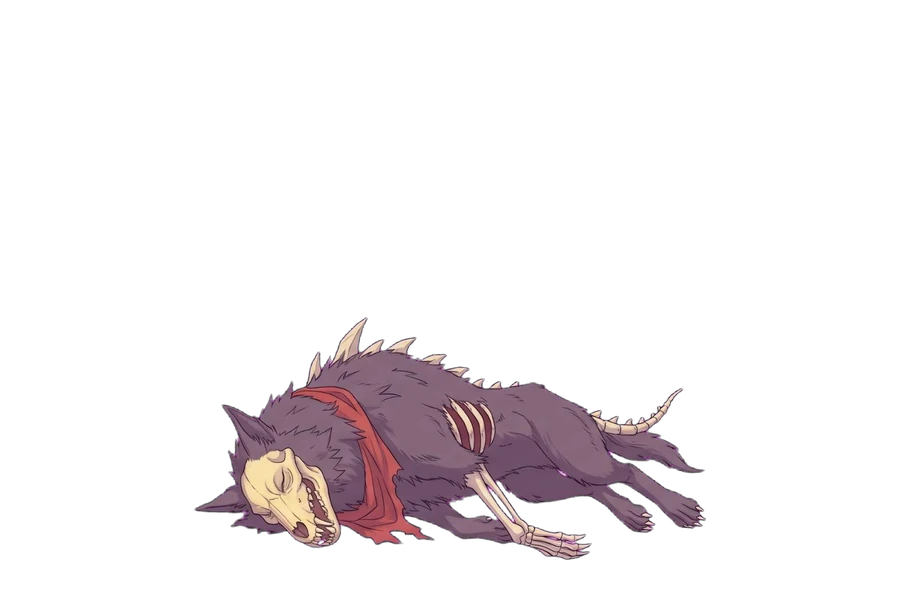
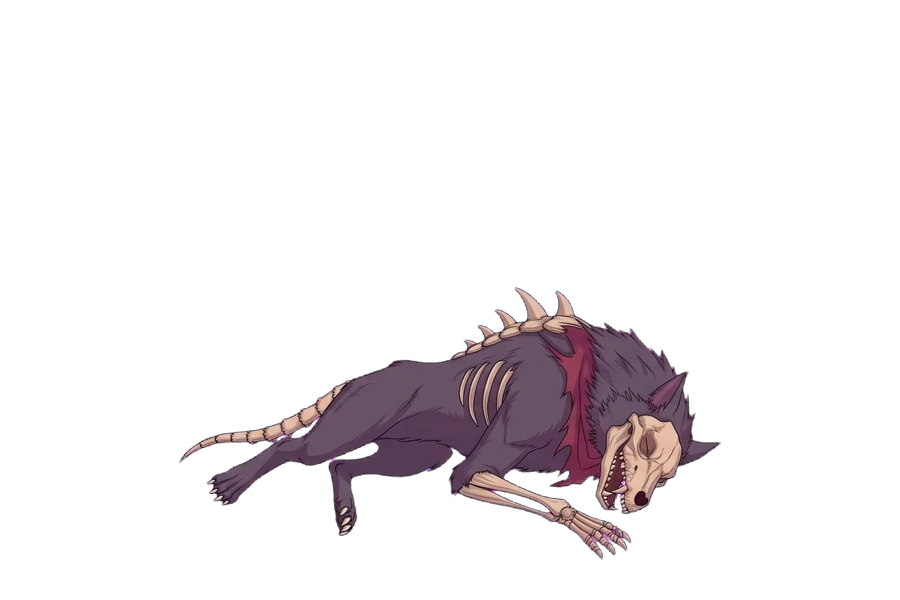
v0.8.79 第 5 關大小狼全招式關鍵格、大狼倒地、荒原地面帶與前景
Claude-Session: https://claude.ai/code/session_019t36GpyRPapLF4Hr4skQms

Changed region(s): [[0.2178, 0.48, 0.8089, 0.93], [0.1867, 0.75, 0.2178, 0.78]]

diff --git a/index.html b/index.html
@@ -2077,7 +2077,7 @@
       "use strict";
 
       /* v0.7.8 圖片快取：assets/ 圖片網址一律加 ?v=版本，更新美術後不會讀到手機瀏覽器的舊快取（每次改圖就遞增 ASSET_VER） */
-      const ASSET_VER = "0.8.78";
+      const ASSET_VER = "0.8.79";
       (function () {
         const d = Object.getOwnPropertyDescriptor(HTMLImageElement.prototype, "src");
         if (!d || !d.set) return;
@@ -3000,40 +3000,45 @@
         const M = {};
         const FR = (w, a, r) => ({ windup: w, active: a, recover: r });
         /* --- 小狼（快、低、打了就跑） --- */
-        M.s_bite = { fxAct: { sheet: "wolf", row: 1, ox: 120, oy: -85, w: 280, dur: 0.26 }, kick: 0.12, name: "幽影撕咬", frames: { windup: ["07_windup", "20_bite_crouch"], active: ["21_bite_lunge"], recover: ["10_slash_rec"] }, windup: 0.40, active: 0.12, recover: 0.22, range: 150, lunge: 520, damage: 120, parryPostureDmg: 16 };
-        M.s_bite2 = { fxHit: { sheet: "wolf", row: 1, ox: 110, oy: -85, w: 240, dur: 0.22 }, kickHit: 0.08, name: "連環撕咬", isCombo: true, comboTotalHits: 2, comboInterval: 0.16, comboDamagePerHit: 85, frames: { windup: ["20_bite_crouch"], active: ["21_bite_lunge", "29_claw", "21_bite_lunge"], recover: ["10_slash_rec"] }, windup: 0.38, active: 0.45, recover: 0.30, range: 155, lunge: 420, damage: 100, parryPostureDmg: 14 };
-        M.s_claw3 = { kickHit: 0.08, fxHit: { sheet: "wolf", row: 0, ox: 110, oy: -90, w: 300, dur: 0.25 }, name: "血爪三連", isCombo: true, comboTotalHits: 3, comboInterval: 0.18, comboDamagePerHit: 80, frames: { windup: ["07_windup"], active: ["29_claw", "09_slash", "29_claw"], recover: ["10_slash_rec"] }, windup: 0.42, active: 0.62, recover: 0.34, range: 160, lunge: 420, damage: 110, parryPostureDmg: 14 };
-        M.s_pounce = { fxLand: 0.45, kick: 0.1, name: "疾撲 (閃開，或起跳踩頭)", isLeap: true, leapH: 130, leapMax: 460, frames: { windup: ["08_windup_thrust", "22_pounce_coil"], active: ["23_pounce_fly", "24_pounce_dive"], recover: ["25_pounce_land", "12_thrust_rec"] }, windup: 0.42, active: 0.36, recover: 0.42, range: 150, lunge: 0, damage: 150, parryPostureDmg: 16 };
-        M.s_rush = { fxAct: { sheet: "wolf", row: 0, ox: 150, oy: -90, w: 440, dur: 0.3 }, kick: 0.22, name: "【危】狂暴衝撲 (前閃看破)", isPerilous: true, perilType: "thrust", frames: { windup: ["08_windup_thrust", "22_pounce_coil"], active: ["26_rush"], recover: ["25_pounce_land", "12_thrust_rec"] }, windup: 0.50, active: 0.20, recover: 0.55, range: 300, lunge: 980, damage: 300 };
-        M.s_tail = { fxAct: { sheet: "land", row: 2, ox: 0, oy: -45, w: 560, dur: 0.45, alpha: 0.6 }, kick: 0.15, name: "【危】甩尾旋斬 (起跳踩頭)", isPerilous: true, perilType: "sweep", frames: { windup: ["27_tail_wind"], active: ["28_tail_spin", "13_sweep"], recover: ["10_slash_rec"] }, windup: 0.52, active: 0.22, recover: 0.50, range: 230, lunge: 240, damage: 260 };
-        M.s_shadow = { name: "幽影閃 (繞背)", isTeleport: true, teleportBehind: true, teleportDelay: 0.30, teleportText: "【幽影閃】", teleportColor: "#c084fc", frames: FR("07_windup", "09_slash", "10_slash_rec"), windup: 0.50, active: 0.12, recover: 0.34, range: 150, lunge: 300, damage: 130, parryPostureDmg: 14 };
+        M.s_bite = { fxAct: { sheet: "wolf", row: 1, ox: 120, oy: -85, w: 280, dur: 0.26 }, kick: 0.12, name: "幽影撕咬", frames: { windup: ["40_sb_wind"], active: ["41_sb_open", "42_sb_snap"], recover: ["43_sb_rec"] }, windup: 0.40, active: 0.12, recover: 0.22, range: 150, lunge: 520, damage: 120, parryPostureDmg: 16 };
+        M.s_bite2 = { fxHit: { sheet: "wolf", row: 1, ox: 110, oy: -85, w: 240, dur: 0.22 }, kickHit: 0.08, name: "連環撕咬", isCombo: true, comboTotalHits: 2, comboInterval: 0.16, comboDamagePerHit: 85, frames: { windup: ["40_sb_wind"], active: ["41_sb_open", "42_sb_snap", "41_sb_open", "42_sb_snap"], recover: ["43_sb_rec"] }, windup: 0.38, active: 0.45, recover: 0.30, range: 155, lunge: 420, damage: 100, parryPostureDmg: 14 };
+        M.s_claw3 = { kickHit: 0.08, fxHit: { sheet: "wolf", row: 0, ox: 110, oy: -90, w: 300, dur: 0.25 }, name: "血爪三連", isCombo: true, comboTotalHits: 3, comboInterval: 0.18, comboDamagePerHit: 80, frames: { windup: ["44_sc_rear"], active: ["45_sc_a", "46_sc_b", "45_sc_a"], recover: ["47_sc_rec"] }, windup: 0.42, active: 0.62, recover: 0.34, range: 160, lunge: 420, damage: 110, parryPostureDmg: 14 };
+        M.s_pounce = { fxLand: 0.45, kick: 0.1, name: "疾撲 (閃開，或起跳踩頭)", isLeap: true, leapH: 130, leapMax: 460, frames: { windup: ["48_sp_coil"], active: ["49_sp_rise", "50_sp_dive"], recover: ["51_sp_land"] }, windup: 0.42, active: 0.36, recover: 0.42, range: 150, lunge: 0, damage: 150, parryPostureDmg: 16 };
+        M.s_rush = { fxAct: { sheet: "wolf", row: 0, ox: 150, oy: -90, w: 440, dur: 0.3 }, kick: 0.22, name: "【危】狂暴衝撲 (前閃看破)", isPerilous: true, perilType: "thrust", frames: { windup: ["52_sr_tell"], active: ["53_sr_dart"], recover: ["51_sp_land", "43_sb_rec"] }, windup: 0.50, active: 0.20, recover: 0.55, range: 300, lunge: 980, damage: 300 };
+        M.s_tail = { fxAct: { sheet: "land", row: 2, ox: 0, oy: -45, w: 560, dur: 0.45, alpha: 0.6 }, kick: 0.15, name: "【危】甩尾旋斬 (起跳踩頭)", isPerilous: true, perilType: "sweep", frames: { windup: ["56_st_wind"], active: ["57_st_spin"], recover: ["58_st_rec"] }, windup: 0.52, active: 0.22, recover: 0.50, range: 230, lunge: 240, damage: 260 };
+        M.s_shadow = { name: "幽影閃 (繞背)", isTeleport: true, teleportBehind: true, teleportDelay: 0.30, teleportText: "【幽影閃】", teleportColor: "#c084fc", frames: { windup: ["40_sb_wind"], active: ["55_ss_hit"], recover: ["47_sc_rec"] }, windup: 0.50, active: 0.12, recover: 0.34, range: 150, lunge: 300, damage: 130, parryPostureDmg: 14 };
         M.backstep = { name: "後撤", isMobility: true, frames: { windup: "04_walk2", active: "04_walk2", recover: "01_idle1" }, windup: 0.08, active: 0.24, recover: 0.08, range: 0, lunge: -1000, damage: 0 };
         M.dash_in = { name: "衝步", isMobility: true, frames: { windup: "03_walk1", active: "03_walk1", recover: "01_idle1" }, windup: 0.10, active: 0.20, recover: 0.05, range: 0, lunge: 1250, damage: 0 };
-        M.s_rage = { kickHit: 0.1, name: "嗜血狂亂 (霸體)", isRage: true, armor: true, isCombo: true, comboTotalHits: 4, comboInterval: 0.16, comboDamagePerHit: 80, frames: { windup: ["20_bite_crouch"], active: ["29_claw", "21_bite_lunge", "29_claw", "09_slash"], recover: ["10_slash_rec"] }, windup: 0.50, active: 0.78, recover: 0.55, range: 165, lunge: 460, damage: 120, parryPostureDmg: 18 };
+        M.s_rage = { kickHit: 0.1, name: "嗜血狂亂 (霸體)", isRage: true, armor: true, isCombo: true, comboTotalHits: 4, comboInterval: 0.16, comboDamagePerHit: 80, frames: { windup: ["59_s_howl"], active: ["45_sc_a", "41_sb_open", "46_sc_b", "42_sb_snap"], recover: ["43_sb_rec"] }, windup: 0.50, active: 0.78, recover: 0.55, range: 165, lunge: 460, damage: 120, parryPostureDmg: 18 };
         /* --- 蛻變（不是攻擊：長嘯 1.4 秒脹大，active 起點換成大狼，震退） --- */
-        M.transform = { name: "九幽狼王・覺醒", isSwitch: true, isTransform: true, armor: true, switchText: { B: "〔九幽狼王・覺醒〕" }, frames: FR("14_cast", "14_cast", "14_cast"), windup: 1.4, active: 0.4, recover: 0.7, range: 0, lunge: 0, damage: 0 };
+        M.transform = { name: "九幽狼王・覺醒", isSwitch: true, isTransform: true, armor: true, switchText: { B: "〔九幽狼王・覺醒〕" }, frames: { windup: ["59_s_howl"], active: ["56_b_howl"], recover: ["56_b_howl"] }, windup: 1.4, active: 0.4, recover: 0.7, range: 0, lunge: 0, damage: 0 };
         /* --- 大狼（慢、重、大範圍；range 含半個身長） --- */
-        M.b_swipe = { kick: 0.35, fxAct: { sheet: "wolf", row: 0, ox: 200, oy: -210, w: 640, dur: 0.34 }, name: "巨爪橫掃", frames: { windup: ["07_windup", "22_swipe_rear"], active: ["23_swipe_mid", "09_slash"], recover: ["10_slash_rec"] }, windup: 0.62, active: 0.18, recover: 0.55, range: 330, lunge: 220, damage: 210, parryPostureDmg: 28 };
-        M.b_stomp = { kickHit: 0.3, name: "地面連錘", isCombo: true, comboTotalHits: 3, comboInterval: 0.30, comboDamagePerHit: 110, fxHit: { sheet: "land", row: 0, ox: 260, oy: 22, w: 560, dur: 0.5, anchor: "b", alpha: 0.85 }, frames: { windup: ["24_slam_up"], active: ["25_slam_mid", "24_slam_up", "25_slam_mid"], recover: ["10_slash_rec"] }, windup: 0.60, active: 1.0, recover: 0.55, range: 320, lunge: 300, damage: 160, parryPostureDmg: 20 };
-        M.b_leap = { kick: 0.3, name: "【危】巨狼躍壓 (閃開，或起跳踩頭)", isLeap: true, fxLand: true, isPerilous: true, perilType: "leap", leapH: 230, leapMax: 640, frames: { windup: ["08_windup_thrust", "26_leap_crouch"], active: ["27_leap_fly", "28_leap_dive"], recover: ["12_thrust_rec", "10_slash_rec"] }, windup: 0.75, active: 0.60, recover: 0.80, range: 300, lunge: 0, damage: 300, parryPostureDmg: 22 };
-        M.b_howl = { kick: 0.25, fxAct: { sheet: "wolf", row: 3, ox: 260, oy: -250, w: 900, dur: 0.7 }, name: "咆哮震波 (霸體・震退)", armor: true, pushback: 900, frames: FR("14_cast", "14_cast", "14_cast"), windup: 0.65, active: 0.15, recover: 0.50, range: 420, lunge: 0, damage: 90, parryPostureDmg: 20 };
-        M.b_bone = { name: "白骨刺陣", isZone: true, zoneType: "bone", zoneWidth: 320, zoneDuration: 2.4, zoneDamagePerSec: 150, zoneTargetPlayer: true, frames: FR("14_cast", "14_cast", "14_cast"), windup: 0.55, active: 0.20, recover: 0.50, range: 300, lunge: 0, damage: 120 };
-        M.b_bite = { kick: 0.4, name: "【危】噬魂吞咬 (極限側閃)", isPerilous: true, perilType: "grab", fxAct: { sheet: "wolf", row: 1, ox: 300, oy: -190, w: 560, dur: 0.36 }, frames: { windup: ["29_bite_wind"], active: ["30_bite_snap"], recover: ["12_thrust_rec"] }, windup: 0.70, active: 0.16, recover: 0.75, range: 260, lunge: 0, damage: 350 };
-        M.b_tail = { kick: 0.25, fxAct: { sheet: "land", row: 2, ox: 0, oy: -60, w: 1100, dur: 0.5, alpha: 0.7 }, name: "【危】魔尾裂風掃 (起跳踩頭)", isPerilous: true, perilType: "sweep", frames: { windup: ["32_tail_wind"], active: ["33_tail_spin", "13_sweep"], recover: ["10_slash_rec"] }, windup: 0.60, active: 0.24, recover: 0.62, range: 360, lunge: 260, damage: 300 };
-        M.b_rush = { kick: 0.25, name: "巨狼衝撞 (跳躍越過)", isCharge: true, armor: true, chargeSpeed: 720, frames: { windup: ["26_leap_crouch"], active: ["31_rush"], recover: ["12_thrust_rec"] }, windup: 0.70, active: 0.70, recover: 0.90, range: 260, lunge: 720, damage: 260, parryPostureDmg: 24 };
-        M.b_rage = { kickHit: 0.15, fxHit: { sheet: "wolf", row: 0, ox: 220, oy: -200, w: 700, dur: 0.3 }, name: "血海狼嚎・亂爪 (霸體)", isRage: true, armor: true, isCombo: true, comboTotalHits: 3, comboInterval: 0.26, comboDamagePerHit: 130, frames: { windup: ["14_cast"], active: ["23_swipe_mid", "25_slam_mid", "23_swipe_mid"], recover: ["10_slash_rec"] }, windup: 0.70, active: 0.95, recover: 0.70, range: 340, lunge: 320, damage: 220, parryPostureDmg: 26 };
+        M.b_swipe = { kick: 0.35, fxAct: { sheet: "wolf", row: 0, ox: 200, oy: -210, w: 640, dur: 0.34 }, name: "巨爪橫掃", frames: { windup: ["40_bw_wind"], active: ["41_bw_mid", "42_bw_follow"], recover: ["43_bw_rec"] }, windup: 0.62, active: 0.18, recover: 0.55, range: 330, lunge: 220, damage: 210, parryPostureDmg: 28 };
+        M.b_stomp = { kickHit: 0.3, name: "地面連錘", isCombo: true, comboTotalHits: 3, comboInterval: 0.30, comboDamagePerHit: 110, fxHit: { sheet: "land", row: 0, ox: 260, oy: 22, w: 560, dur: 0.5, anchor: "b", alpha: 0.85 }, frames: { windup: ["44_bs_up"], active: ["45_bs_down", "46_bs_up2", "45_bs_down"], recover: ["47_bs_rec"] }, windup: 0.60, active: 1.0, recover: 0.55, range: 320, lunge: 300, damage: 160, parryPostureDmg: 20 };
+        M.b_leap = { kick: 0.3, name: "【危】巨狼躍壓 (閃開，或起跳踩頭)", isLeap: true, fxLand: true, isPerilous: true, perilType: "leap", leapH: 230, leapMax: 640, frames: { windup: ["48_bl_crouch"], active: ["49_bl_fly", "50_bl_dive"], recover: ["51_bl_land"] }, windup: 0.75, active: 0.60, recover: 0.80, range: 300, lunge: 0, damage: 300, parryPostureDmg: 22 };
+        M.b_howl = { kick: 0.25, fxAct: { sheet: "wolf", row: 3, ox: 260, oy: -250, w: 900, dur: 0.7 }, name: "咆哮震波 (霸體・震退)", armor: true, pushback: 900, frames: { windup: ["07_windup"], active: ["56_b_howl"], recover: ["43_bw_rec"] }, windup: 0.65, active: 0.15, recover: 0.50, range: 420, lunge: 0, damage: 90, parryPostureDmg: 20 };
+        M.b_bone = { name: "白骨刺陣", isZone: true, zoneType: "bone", zoneWidth: 320, zoneDuration: 2.4, zoneDamagePerSec: 150, zoneTargetPlayer: true, frames: { windup: ["14_cast"], active: ["57_b_summon"], recover: ["47_bs_rec"] }, windup: 0.55, active: 0.20, recover: 0.50, range: 300, lunge: 0, damage: 120 };
+        M.b_bite = { kick: 0.4, name: "【危】噬魂吞咬 (極限側閃)", isPerilous: true, perilType: "grab", fxAct: { sheet: "wolf", row: 1, ox: 300, oy: -190, w: 560, dur: 0.36 }, frames: { windup: ["52_bb_tell"], active: ["53_bb_snap"], recover: ["47_bs_rec"] }, windup: 0.70, active: 0.16, recover: 0.75, range: 260, lunge: 0, damage: 350 };
+        M.b_tail = { kick: 0.25, fxAct: { sheet: "land", row: 2, ox: 0, oy: -60, w: 1100, dur: 0.5, alpha: 0.7 }, name: "【危】魔尾裂風掃 (起跳踩頭)", isPerilous: true, perilType: "sweep", frames: { windup: ["58_bt_wind"], active: ["59_bt_spin"], recover: ["43_bw_rec"] }, windup: 0.60, active: 0.24, recover: 0.62, range: 360, lunge: 260, damage: 300 };
+        M.b_rush = { kick: 0.25, name: "巨狼衝撞 (跳躍越過)", isCharge: true, armor: true, chargeSpeed: 720, frames: { windup: ["54_bc_wind"], active: ["55_bc_run"], recover: ["47_bs_rec"] }, windup: 0.70, active: 0.70, recover: 0.90, range: 260, lunge: 720, damage: 260, parryPostureDmg: 24 };
+        M.b_rage = { kickHit: 0.15, fxHit: { sheet: "wolf", row: 0, ox: 220, oy: -200, w: 700, dur: 0.3 }, name: "血海狼嚎・亂爪 (霸體)", isRage: true, armor: true, isCombo: true, comboTotalHits: 3, comboInterval: 0.26, comboDamagePerHit: 130, frames: { windup: ["56_b_howl"], active: ["41_bw_mid", "45_bs_down", "42_bw_follow"], recover: ["43_bw_rec"] }, windup: 0.70, active: 0.95, recover: 0.70, range: 340, lunge: 320, damage: 220, parryPostureDmg: 26 };
         Object.values(M).forEach(m => { if (m.range) m.range = Math.round(m.range * CHAR_K); });
         S5.moves = M;
         const SFX = { s_bite: { w: "w_snarl", a: "w_snap" }, s_bite2: { w: "w_snarl", h: "w_snap" }, s_claw3: { w: "w_snarl", h: "w_claw" }, s_pounce: { w: "w_snarl", a: "w_bark" }, s_rush: { w: "w_snarl", a: "w_bark" }, s_tail: { w: "w_snarl", a: "w_claw" }, s_shadow: { a: "w_claw" }, s_rage: { w: "w_howl", a: "w_bark" }, backstep: { a: "w_claw" }, dash_in: { a: "w_claw" },
           b_swipe: { w: "m_growl", a: "m_swipe" }, b_stomp: { w: "m_growl", h: "m_stomp" }, b_howl: { a: "m_roar" }, b_bone: { w: "m_growl" }, b_leap: { w: "m_growl", a: "m_roar" }, b_bite: { w: "m_growl", a: "m_bite" }, b_tail: { w: "m_growl", a: "m_swipe" }, b_rush: { w: "m_growl", a: "m_roar" }, b_rage: { w: "m_howl", h: "m_swipe" }, transform: { w: "w_howl" } };
         Object.keys(SFX).forEach((k) => { if (M[k]) M[k].sfx = SFX[k]; }); /* v0.8.34 狼的招式音效：w＝前搖、a＝出招、h＝連擊每一下 */
         S5.dfmK = 0.35; /* 變形強度：使用者要求輕微（原 1.0 太誇張）*/ S5.fxSheets = ["wolf", "land", "flame"]; S5.stanceByPhase = { 1: "A", 2: "B" }; S5.transformMove = "transform"; S5.transformGrow = 3.0; /* 蛻變時小狼脹大的倍數（接近大狼／小狼體型比） */
+        /* v0.8.79 第 5 關分層場景：荒原殘陽地面帶＋前景剪影（參數同第 2 關） */
+        S5.layers = [
+          { img: "arena5_ground", ground: true, par: 1, y: 455, h: 330, dim: 0.08 },
+          { img: "arena5_fg", fg: true, par: 1.35, y: 560, h: 250, alpha: 0.95, dim: 0.15 }
+        ];
         S5.stances = {
-          A: { sprite: "boss5", extras: ["20_bite_crouch", "21_bite_lunge", "22_pounce_coil", "23_pounce_fly", "24_pounce_dive", "25_pounce_land", "26_rush", "27_tail_wind", "28_tail_spin", "29_claw"], stride: 170, speed: 430, walkSeq: ["03_walk1", "04_walk2", "05_walk3", "06_walk4"], spriteScale: 0.64, hurtHalf: 40, bodyW: 150, bodyH: 70, rageMove: "s_rage",
+          A: { sprite: "boss5", extras: ["20_bite_crouch", "21_bite_lunge", "22_pounce_coil", "23_pounce_fly", "24_pounce_dive", "25_pounce_land", "26_rush", "27_tail_wind", "28_tail_spin", "29_claw", "40_sb_wind", "41_sb_open", "42_sb_snap", "43_sb_rec", "44_sc_rear", "45_sc_a", "46_sc_b", "47_sc_rec", "48_sp_coil", "49_sp_rise", "50_sp_dive", "51_sp_land", "52_sr_tell", "53_sr_dart", "54_sr_skid", "55_ss_hit", "56_st_wind", "57_st_spin", "58_st_rec", "59_s_howl"], stride: 170, speed: 430, walkSeq: ["03_walk1", "04_walk2", "05_walk3", "06_walk4"], spriteScale: 0.64, hurtHalf: 40, bodyW: 150, bodyH: 70, rageMove: "s_rage",
             pool: [["s_bite", 14], ["s_bite2", 12], ["s_claw3", 11], ["s_bite+backstep", 10, "mobility"], ["s_pounce+backstep", 9, "mobility"], ["dash_in+s_bite", 10, "chase"], ["s_rush", 8], ["s_tail", 8], ["s_shadow+s_bite", 8, "chase"]],
             far: ["dash_in+s_bite", "s_pounce"], farP2: [] },
           B: { sprite: "boss5b", stride: 330, speed: 250, /* 大狼：站立與走路只用外觀一致（無骨腿）的格子，避免 AI 生圖各格骨腿有無不同而閃爍 */
-            extras: ["22_swipe_rear", "23_swipe_mid", "24_slam_up", "25_slam_mid", "26_leap_crouch", "27_leap_fly", "28_leap_dive", "29_bite_wind", "30_bite_snap", "31_rush", "32_tail_wind", "33_tail_spin"], walkSeq: ["03_walk1", "04_walk2", "05_walk3", "06_walk4"], spriteScale: 1.05, hurtHalf: 230, bodyW: 520, bodyH: 300, rageMove: "b_rage",
+            extras: ["22_swipe_rear", "23_swipe_mid", "24_slam_up", "25_slam_mid", "26_leap_crouch", "27_leap_fly", "28_leap_dive", "29_bite_wind", "30_bite_snap", "31_rush", "32_tail_wind", "33_tail_spin", "40_bw_wind", "41_bw_mid", "42_bw_follow", "43_bw_rec", "44_bs_up", "45_bs_down", "46_bs_up2", "47_bs_rec", "48_bl_crouch", "49_bl_fly", "50_bl_dive", "51_bl_land", "52_bb_tell", "53_bb_snap", "54_bc_wind", "55_bc_run", "56_b_howl", "57_b_summon", "58_bt_wind", "59_bt_spin"], walkSeq: ["03_walk1", "04_walk2", "05_walk3", "06_walk4"], spriteScale: 1.05, hurtHalf: 230, bodyW: 520, bodyH: 300, rageMove: "b_rage",
             pool: [["b_swipe", 16], ["b_stomp", 12], ["b_howl", 9, "push"], ["b_bone", 10], ["b_bite", 9], ["b_tail", 9], ["b_leap", 12, "mobility"], ["b_rush", 8, "chase"]],
             far: ["b_rush", "b_leap"], farP2: [] }
         };

diff --git a/src/21_stages.js b/src/21_stages.js
@@ -188,40 +188,45 @@
         const M = {};
         const FR = (w, a, r) => ({ windup: w, active: a, recover: r });
         /* --- 小狼（快、低、打了就跑） --- */
-        M.s_bite = { fxAct: { sheet: "wolf", row: 1, ox: 120, oy: -85, w: 280, dur: 0.26 }, kick: 0.12, name: "幽影撕咬", frames: { windup: ["07_windup", "20_bite_crouch"], active: ["21_bite_lunge"], recover: ["10_slash_rec"] }, windup: 0.40, active: 0.12, recover: 0.22, range: 150, lunge: 520, damage: 120, parryPostureDmg: 16 };
-        M.s_bite2 = { fxHit: { sheet: "wolf", row: 1, ox: 110, oy: -85, w: 240, dur: 0.22 }, kickHit: 0.08, name: "連環撕咬", isCombo: true, comboTotalHits: 2, comboInterval: 0.16, comboDamagePerHit: 85, frames: { windup: ["20_bite_crouch"], active: ["21_bite_lunge", "29_claw", "21_bite_lunge"], recover: ["10_slash_rec"] }, windup: 0.38, active: 0.45, recover: 0.30, range: 155, lunge: 420, damage: 100, parryPostureDmg: 14 };
-        M.s_claw3 = { kickHit: 0.08, fxHit: { sheet: "wolf", row: 0, ox: 110, oy: -90, w: 300, dur: 0.25 }, name: "血爪三連", isCombo: true, comboTotalHits: 3, comboInterval: 0.18, comboDamagePerHit: 80, frames: { windup: ["07_windup"], active: ["29_claw", "09_slash", "29_claw"], recover: ["10_slash_rec"] }, windup: 0.42, active: 0.62, recover: 0.34, range: 160, lunge: 420, damage: 110, parryPostureDmg: 14 };
-        M.s_pounce = { fxLand: 0.45, kick: 0.1, name: "疾撲 (閃開，或起跳踩頭)", isLeap: true, leapH: 130, leapMax: 460, frames: { windup: ["08_windup_thrust", "22_pounce_coil"], active: ["23_pounce_fly", "24_pounce_dive"], recover: ["25_pounce_land", "12_thrust_rec"] }, windup: 0.42, active: 0.36, recover: 0.42, range: 150, lunge: 0, damage: 150, parryPostureDmg: 16 };
-        M.s_rush = { fxAct: { sheet: "wolf", row: 0, ox: 150, oy: -90, w: 440, dur: 0.3 }, kick: 0.22, name: "【危】狂暴衝撲 (前閃看破)", isPerilous: true, perilType: "thrust", frames: { windup: ["08_windup_thrust", "22_pounce_coil"], active: ["26_rush"], recover: ["25_pounce_land", "12_thrust_rec"] }, windup: 0.50, active: 0.20, recover: 0.55, range: 300, lunge: 980, damage: 300 };
-        M.s_tail = { fxAct: { sheet: "land", row: 2, ox: 0, oy: -45, w: 560, dur: 0.45, alpha: 0.6 }, kick: 0.15, name: "【危】甩尾旋斬 (起跳踩頭)", isPerilous: true, perilType: "sweep", frames: { windup: ["27_tail_wind"], active: ["28_tail_spin", "13_sweep"], recover: ["10_slash_rec"] }, windup: 0.52, active: 0.22, recover: 0.50, range: 230, lunge: 240, damage: 260 };
-        M.s_shadow = { name: "幽影閃 (繞背)", isTeleport: true, teleportBehind: true, teleportDelay: 0.30, teleportText: "【幽影閃】", teleportColor: "#c084fc", frames: FR("07_windup", "09_slash", "10_slash_rec"), windup: 0.50, active: 0.12, recover: 0.34, range: 150, lunge: 300, damage: 130, parryPostureDmg: 14 };
+        M.s_bite = { fxAct: { sheet: "wolf", row: 1, ox: 120, oy: -85, w: 280, dur: 0.26 }, kick: 0.12, name: "幽影撕咬", frames: { windup: ["40_sb_wind"], active: ["41_sb_open", "42_sb_snap"], recover: ["43_sb_rec"] }, windup: 0.40, active: 0.12, recover: 0.22, range: 150, lunge: 520, damage: 120, parryPostureDmg: 16 };
+        M.s_bite2 = { fxHit: { sheet: "wolf", row: 1, ox: 110, oy: -85, w: 240, dur: 0.22 }, kickHit: 0.08, name: "連環撕咬", isCombo: true, comboTotalHits: 2, comboInterval: 0.16, comboDamagePerHit: 85, frames: { windup: ["40_sb_wind"], active: ["41_sb_open", "42_sb_snap", "41_sb_open", "42_sb_snap"], recover: ["43_sb_rec"] }, windup: 0.38, active: 0.45, recover: 0.30, range: 155, lunge: 420, damage: 100, parryPostureDmg: 14 };
+        M.s_claw3 = { kickHit: 0.08, fxHit: { sheet: "wolf", row: 0, ox: 110, oy: -90, w: 300, dur: 0.25 }, name: "血爪三連", isCombo: true, comboTotalHits: 3, comboInterval: 0.18, comboDamagePerHit: 80, frames: { windup: ["44_sc_rear"], active: ["45_sc_a", "46_sc_b", "45_sc_a"], recover: ["47_sc_rec"] }, windup: 0.42, active: 0.62, recover: 0.34, range: 160, lunge: 420, damage: 110, parryPostureDmg: 14 };
+        M.s_pounce = { fxLand: 0.45, kick: 0.1, name: "疾撲 (閃開，或起跳踩頭)", isLeap: true, leapH: 130, leapMax: 460, frames: { windup: ["48_sp_coil"], active: ["49_sp_rise", "50_sp_dive"], recover: ["51_sp_land"] }, windup: 0.42, active: 0.36, recover: 0.42, range: 150, lunge: 0, damage: 150, parryPostureDmg: 16 };
+        M.s_rush = { fxAct: { sheet: "wolf", row: 0, ox: 150, oy: -90, w: 440, dur: 0.3 }, kick: 0.22, name: "【危】狂暴衝撲 (前閃看破)", isPerilous: true, perilType: "thrust", frames: { windup: ["52_sr_tell"], active: ["53_sr_dart"], recover: ["51_sp_land", "43_sb_rec"] }, windup: 0.50, active: 0.20, recover: 0.55, range: 300, lunge: 980, damage: 300 };
+        M.s_tail = { fxAct: { sheet: "land", row: 2, ox: 0, oy: -45, w: 560, dur: 0.45, alpha: 0.6 }, kick: 0.15, name: "【危】甩尾旋斬 (起跳踩頭)", isPerilous: true, perilType: "sweep", frames: { windup: ["56_st_wind"], active: ["57_st_spin"], recover: ["58_st_rec"] }, windup: 0.52, active: 0.22, recover: 0.50, range: 230, lunge: 240, damage: 260 };
+        M.s_shadow = { name: "幽影閃 (繞背)", isTeleport: true, teleportBehind: true, teleportDelay: 0.30, teleportText: "【幽影閃】", teleportColor: "#c084fc", frames: { windup: ["40_sb_wind"], active: ["55_ss_hit"], recover: ["47_sc_rec"] }, windup: 0.50, active: 0.12, recover: 0.34, range: 150, lunge: 300, damage: 130, parryPostureDmg: 14 };
         M.backstep = { name: "後撤", isMobility: true, frames: { windup: "04_walk2", active: "04_walk2", recover: "01_idle1" }, windup: 0.08, active: 0.24, recover: 0.08, range: 0, lunge: -1000, damage: 0 };
         M.dash_in = { name: "衝步", isMobility: true, frames: { windup: "03_walk1", active: "03_walk1", recover: "01_idle1" }, windup: 0.10, active: 0.20, recover: 0.05, range: 0, lunge: 1250, damage: 0 };
-        M.s_rage = { kickHit: 0.1, name: "嗜血狂亂 (霸體)", isRage: true, armor: true, isCombo: true, comboTotalHits: 4, comboInterval: 0.16, comboDamagePerHit: 80, frames: { windup: ["20_bite_crouch"], active: ["29_claw", "21_bite_lunge", "29_claw", "09_slash"], recover: ["10_slash_rec"] }, windup: 0.50, active: 0.78, recover: 0.55, range: 165, lunge: 460, damage: 120, parryPostureDmg: 18 };
+        M.s_rage = { kickHit: 0.1, name: "嗜血狂亂 (霸體)", isRage: true, armor: true, isCombo: true, comboTotalHits: 4, comboInterval: 0.16, comboDamagePerHit: 80, frames: { windup: ["59_s_howl"], active: ["45_sc_a", "41_sb_open", "46_sc_b", "42_sb_snap"], recover: ["43_sb_rec"] }, windup: 0.50, active: 0.78, recover: 0.55, range: 165, lunge: 460, damage: 120, parryPostureDmg: 18 };
         /* --- 蛻變（不是攻擊：長嘯 1.4 秒脹大，active 起點換成大狼，震退） --- */
-        M.transform = { name: "九幽狼王・覺醒", isSwitch: true, isTransform: true, armor: true, switchText: { B: "〔九幽狼王・覺醒〕" }, frames: FR("14_cast", "14_cast", "14_cast"), windup: 1.4, active: 0.4, recover: 0.7, range: 0, lunge: 0, damage: 0 };
+        M.transform = { name: "九幽狼王・覺醒", isSwitch: true, isTransform: true, armor: true, switchText: { B: "〔九幽狼王・覺醒〕" }, frames: { windup: ["59_s_howl"], active: ["56_b_howl"], recover: ["56_b_howl"] }, windup: 1.4, active: 0.4, recover: 0.7, range: 0, lunge: 0, damage: 0 };
         /* --- 大狼（慢、重、大範圍；range 含半個身長） --- */
-        M.b_swipe = { kick: 0.35, fxAct: { sheet: "wolf", row: 0, ox: 200, oy: -210, w: 640, dur: 0.34 }, name: "巨爪橫掃", frames: { windup: ["07_windup", "22_swipe_rear"], active: ["23_swipe_mid", "09_slash"], recover: ["10_slash_rec"] }, windup: 0.62, active: 0.18, recover: 0.55, range: 330, lunge: 220, damage: 210, parryPostureDmg: 28 };
-        M.b_stomp = { kickHit: 0.3, name: "地面連錘", isCombo: true, comboTotalHits: 3, comboInterval: 0.30, comboDamagePerHit: 110, fxHit: { sheet: "land", row: 0, ox: 260, oy: 22, w: 560, dur: 0.5, anchor: "b", alpha: 0.85 }, frames: { windup: ["24_slam_up"], active: ["25_slam_mid", "24_slam_up", "25_slam_mid"], recover: ["10_slash_rec"] }, windup: 0.60, active: 1.0, recover: 0.55, range: 320, lunge: 300, damage: 160, parryPostureDmg: 20 };
-        M.b_leap = { kick: 0.3, name: "【危】巨狼躍壓 (閃開，或起跳踩頭)", isLeap: true, fxLand: true, isPerilous: true, perilType: "leap", leapH: 230, leapMax: 640, frames: { windup: ["08_windup_thrust", "26_leap_crouch"], active: ["27_leap_fly", "28_leap_dive"], recover: ["12_thrust_rec", "10_slash_rec"] }, windup: 0.75, active: 0.60, recover: 0.80, range: 300, lunge: 0, damage: 300, parryPostureDmg: 22 };
-        M.b_howl = { kick: 0.25, fxAct: { sheet: "wolf", row: 3, ox: 260, oy: -250, w: 900, dur: 0.7 }, name: "咆哮震波 (霸體・震退)", armor: true, pushback: 900, frames: FR("14_cast", "14_cast", "14_cast"), windup: 0.65, active: 0.15, recover: 0.50, range: 420, lunge: 0, damage: 90, parryPostureDmg: 20 };
-        M.b_bone = { name: "白骨刺陣", isZone: true, zoneType: "bone", zoneWidth: 320, zoneDuration: 2.4, zoneDamagePerSec: 150, zoneTargetPlayer: true, frames: FR("14_cast", "14_cast", "14_cast"), windup: 0.55, active: 0.20, recover: 0.50, range: 300, lunge: 0, damage: 120 };
-        M.b_bite = { kick: 0.4, name: "【危】噬魂吞咬 (極限側閃)", isPerilous: true, perilType: "grab", fxAct: { sheet: "wolf", row: 1, ox: 300, oy: -190, w: 560, dur: 0.36 }, frames: { windup: ["29_bite_wind"], active: ["30_bite_snap"], recover: ["12_thrust_rec"] }, windup: 0.70, active: 0.16, recover: 0.75, range: 260, lunge: 0, damage: 350 };
-        M.b_tail = { kick: 0.25, fxAct: { sheet: "land", row: 2, ox: 0, oy: -60, w: 1100, dur: 0.5, alpha: 0.7 }, name: "【危】魔尾裂風掃 (起跳踩頭)", isPerilous: true, perilType: "sweep", frames: { windup: ["32_tail_wind"], active: ["33_tail_spin", "13_sweep"], recover: ["10_slash_rec"] }, windup: 0.60, active: 0.24, recover: 0.62, range: 360, lunge: 260, damage: 300 };
-        M.b_rush = { kick: 0.25, name: "巨狼衝撞 (跳躍越過)", isCharge: true, armor: true, chargeSpeed: 720, frames: { windup: ["26_leap_crouch"], active: ["31_rush"], recover: ["12_thrust_rec"] }, windup: 0.70, active: 0.70, recover: 0.90, range: 260, lunge: 720, damage: 260, parryPostureDmg: 24 };
-        M.b_rage = { kickHit: 0.15, fxHit: { sheet: "wolf", row: 0, ox: 220, oy: -200, w: 700, dur: 0.3 }, name: "血海狼嚎・亂爪 (霸體)", isRage: true, armor: true, isCombo: true, comboTotalHits: 3, comboInterval: 0.26, comboDamagePerHit: 130, frames: { windup: ["14_cast"], active: ["23_swipe_mid", "25_slam_mid", "23_swipe_mid"], recover: ["10_slash_rec"] }, windup: 0.70, active: 0.95, recover: 0.70, range: 340, lunge: 320, damage: 220, parryPostureDmg: 26 };
+        M.b_swipe = { kick: 0.35, fxAct: { sheet: "wolf", row: 0, ox: 200, oy: -210, w: 640, dur: 0.34 }, name: "巨爪橫掃", frames: { windup: ["40_bw_wind"], active: ["41_bw_mid", "42_bw_follow"], recover: ["43_bw_rec"] }, windup: 0.62, active: 0.18, recover: 0.55, range: 330, lunge: 220, damage: 210, parryPostureDmg: 28 };
+        M.b_stomp = { kickHit: 0.3, name: "地面連錘", isCombo: true, comboTotalHits: 3, comboInterval: 0.30, comboDamagePerHit: 110, fxHit: { sheet: "land", row: 0, ox: 260, oy: 22, w: 560, dur: 0.5, anchor: "b", alpha: 0.85 }, frames: { windup: ["44_bs_up"], active: ["45_bs_down", "46_bs_up2", "45_bs_down"], recover: ["47_bs_rec"] }, windup: 0.60, active: 1.0, recover: 0.55, range: 320, lunge: 300, damage: 160, parryPostureDmg: 20 };
+        M.b_leap = { kick: 0.3, name: "【危】巨狼躍壓 (閃開，或起跳踩頭)", isLeap: true, fxLand: true, isPerilous: true, perilType: "leap", leapH: 230, leapMax: 640, frames: { windup: ["48_bl_crouch"], active: ["49_bl_fly", "50_bl_dive"], recover: ["51_bl_land"] }, windup: 0.75, active: 0.60, recover: 0.80, range: 300, lunge: 0, damage: 300, parryPostureDmg: 22 };
+        M.b_howl = { kick: 0.25, fxAct: { sheet: "wolf", row: 3, ox: 260, oy: -250, w: 900, dur: 0.7 }, name: "咆哮震波 (霸體・震退)", armor: true, pushback: 900, frames: { windup: ["07_windup"], active: ["56_b_howl"], recover: ["43_bw_rec"] }, windup: 0.65, active: 0.15, recover: 0.50, range: 420, lunge: 0, damage: 90, parryPostureDmg: 20 };
+        M.b_bone = { name: "白骨刺陣", isZone: true, zoneType: "bone", zoneWidth: 320, zoneDuration: 2.4, zoneDamagePerSec: 150, zoneTargetPlayer: true, frames: { windup: ["14_cast"], active: ["57_b_summon"], recover: ["47_bs_rec"] }, windup: 0.55, active: 0.20, recover: 0.50, range: 300, lunge: 0, damage: 120 };
+        M.b_bite = { kick: 0.4, name: "【危】噬魂吞咬 (極限側閃)", isPerilous: true, perilType: "grab", fxAct: { sheet: "wolf", row: 1, ox: 300, oy: -190, w: 560, dur: 0.36 }, frames: { windup: ["52_bb_tell"], active: ["53_bb_snap"], recover: ["47_bs_rec"] }, windup: 0.70, active: 0.16, recover: 0.75, range: 260, lunge: 0, damage: 350 };
+        M.b_tail = { kick: 0.25, fxAct: { sheet: "land", row: 2, ox: 0, oy: -60, w: 1100, dur: 0.5, alpha: 0.7 }, name: "【危】魔尾裂風掃 (起跳踩頭)", isPerilous: true, perilType: "sweep", frames: { windup: ["58_bt_wind"], active: ["59_bt_spin"], recover: ["43_bw_rec"] }, windup: 0.60, active: 0.24, recover: 0.62, range: 360, lunge: 260, damage: 300 };
+        M.b_rush = { kick: 0.25, name: "巨狼衝撞 (跳躍越過)", isCharge: true, armor: true, chargeSpeed: 720, frames: { windup: ["54_bc_wind"], active: ["55_bc_run"], recover: ["47_bs_rec"] }, windup: 0.70, active: 0.70, recover: 0.90, range: 260, lunge: 720, damage: 260, parryPostureDmg: 24 };
+        M.b_rage = { kickHit: 0.15, fxHit: { sheet: "wolf", row: 0, ox: 220, oy: -200, w: 700, dur: 0.3 }, name: "血海狼嚎・亂爪 (霸體)", isRage: true, armor: true, isCombo: true, comboTotalHits: 3, comboInterval: 0.26, comboDamagePerHit: 130, frames: { windup: ["56_b_howl"], active: ["41_bw_mid", "45_bs_down", "42_bw_follow"], recover: ["43_bw_rec"] }, windup: 0.70, active: 0.95, recover: 0.70, range: 340, lunge: 320, damage: 220, parryPostureDmg: 26 };
         Object.values(M).forEach(m => { if (m.range) m.range = Math.round(m.range * CHAR_K); });
         S5.moves = M;
         const SFX = { s_bite: { w: "w_snarl", a: "w_snap" }, s_bite2: { w: "w_snarl", h: "w_snap" }, s_claw3: { w: "w_snarl", h: "w_claw" }, s_pounce: { w: "w_snarl", a: "w_bark" }, s_rush: { w: "w_snarl", a: "w_bark" }, s_tail: { w: "w_snarl", a: "w_claw" }, s_shadow: { a: "w_claw" }, s_rage: { w: "w_howl", a: "w_bark" }, backstep: { a: "w_claw" }, dash_in: { a: "w_claw" },
           b_swipe: { w: "m_growl", a: "m_swipe" }, b_stomp: { w: "m_growl", h: "m_stomp" }, b_howl: { a: "m_roar" }, b_bone: { w: "m_growl" }, b_leap: { w: "m_growl", a: "m_roar" }, b_bite: { w: "m_growl", a: "m_bite" }, b_tail: { w: "m_growl", a: "m_swipe" }, b_rush: { w: "m_growl", a: "m_roar" }, b_rage: { w: "m_howl", h: "m_swipe" }, transform: { w: "w_howl" } };
         Object.keys(SFX).forEach((k) => { if (M[k]) M[k].sfx = SFX[k]; }); /* v0.8.34 狼的招式音效：w＝前搖、a＝出招、h＝連擊每一下 */
         S5.dfmK = 0.35; /* 變形強度：使用者要求輕微（原 1.0 太誇張）*/ S5.fxSheets = ["wolf", "land", "flame"]; S5.stanceByPhase = { 1: "A", 2: "B" }; S5.transformMove = "transform"; S5.transformGrow = 3.0; /* 蛻變時小狼脹大的倍數（接近大狼／小狼體型比） */
+        /* v0.8.79 第 5 關分層場景：荒原殘陽地面帶＋前景剪影（參數同第 2 關） */
+        S5.layers = [
+          { img: "arena5_ground", ground: true, par: 1, y: 455, h: 330, dim: 0.08 },
+          { img: "arena5_fg", fg: true, par: 1.35, y: 560, h: 250, alpha: 0.95, dim: 0.15 }
+        ];
         S5.stances = {
-          A: { sprite: "boss5", extras: ["20_bite_crouch", "21_bite_lunge", "22_pounce_coil", "23_pounce_fly", "24_pounce_dive", "25_pounce_land", "26_rush", "27_tail_wind", "28_tail_spin", "29_claw"], stride: 170, speed: 430, walkSeq: ["03_walk1", "04_walk2", "05_walk3", "06_walk4"], spriteScale: 0.64, hurtHalf: 40, bodyW: 150, bodyH: 70, rageMove: "s_rage",
+          A: { sprite: "boss5", extras: ["20_bite_crouch", "21_bite_lunge", "22_pounce_coil", "23_pounce_fly", "24_pounce_dive", "25_pounce_land", "26_rush", "27_tail_wind", "28_tail_spin", "29_claw", "40_sb_wind", "41_sb_open", "42_sb_snap", "43_sb_rec", "44_sc_rear", "45_sc_a", "46_sc_b", "47_sc_rec", "48_sp_coil", "49_sp_rise", "50_sp_dive", "51_sp_land", "52_sr_tell", "53_sr_dart", "54_sr_skid", "55_ss_hit", "56_st_wind", "57_st_spin", "58_st_rec", "59_s_howl"], stride: 170, speed: 430, walkSeq: ["03_walk1", "04_walk2", "05_walk3", "06_walk4"], spriteScale: 0.64, hurtHalf: 40, bodyW: 150, bodyH: 70, rageMove: "s_rage",
             pool: [["s_bite", 14], ["s_bite2", 12], ["s_claw3", 11], ["s_bite+backstep", 10, "mobility"], ["s_pounce+backstep", 9, "mobility"], ["dash_in+s_bite", 10, "chase"], ["s_rush", 8], ["s_tail", 8], ["s_shadow+s_bite", 8, "chase"]],
             far: ["dash_in+s_bite", "s_pounce"], farP2: [] },
           B: { sprite: "boss5b", stride: 330, speed: 250, /* 大狼：站立與走路只用外觀一致（無骨腿）的格子，避免 AI 生圖各格骨腿有無不同而閃爍 */
-            extras: ["22_swipe_rear", "23_swipe_mid", "24_slam_up", "25_slam_mid", "26_leap_crouch", "27_leap_fly", "28_leap_dive", "29_bite_wind", "30_bite_snap", "31_rush", "32_tail_wind", "33_tail_spin"], walkSeq: ["03_walk1", "04_walk2", "05_walk3", "06_walk4"], spriteScale: 1.05, hurtHalf: 230, bodyW: 520, bodyH: 300, rageMove: "b_rage",
+            extras: ["22_swipe_rear", "23_swipe_mid", "24_slam_up", "25_slam_mid", "26_leap_crouch", "27_leap_fly", "28_leap_dive", "29_bite_wind", "30_bite_snap", "31_rush", "32_tail_wind", "33_tail_spin", "40_bw_wind", "41_bw_mid", "42_bw_follow", "43_bw_rec", "44_bs_up", "45_bs_down", "46_bs_up2", "47_bs_rec", "48_bl_crouch", "49_bl_fly", "50_bl_dive", "51_bl_land", "52_bb_tell", "53_bb_snap", "54_bc_wind", "55_bc_run", "56_b_howl", "57_b_summon", "58_bt_wind", "59_bt_spin"], walkSeq: ["03_walk1", "04_walk2", "05_walk3", "06_walk4"], spriteScale: 1.05, hurtHalf: 230, bodyW: 520, bodyH: 300, rageMove: "b_rage",
             pool: [["b_swipe", 16], ["b_stomp", 12], ["b_howl", 9, "push"], ["b_bone", 10], ["b_bite", 9], ["b_tail", 9], ["b_leap", 12, "mobility"], ["b_rush", 8, "chase"]],
             far: ["b_rush", "b_leap"], farP2: [] }
         };

diff --git a/src/10_boot.js b/src/10_boot.js
@@ -3,7 +3,7 @@
       "use strict";
 
       /* v0.7.8 圖片快取：assets/ 圖片網址一律加 ?v=版本，更新美術後不會讀到手機瀏覽器的舊快取（每次改圖就遞增 ASSET_VER） */
-      const ASSET_VER = "0.8.78";
+      const ASSET_VER = "0.8.79";
       (function () {
         const d = Object.getOwnPropertyDescriptor(HTMLImageElement.prototype, "src");
         if (!d || !d.set) return;

diff --git a/HANDOFF.md b/HANDOFF.md
@@ -1,4 +1,4 @@
-# 《一念飛仙外傳-墨塵傳》交接文件（對應版本 v0.8.78（M2 進行中；M0 分檔＋M1 聲音第一批））
+# 《一念飛仙外傳-墨塵傳》交接文件（對應版本 v0.8.79（M2 進行中；M0 分檔＋M1 聲音第一批））
 
 > 新對話開始時：上傳這份文件，第一句話寫「請先讀交接文件，照文件的流程繼續」。
 > Claude 要先把倉庫掛進工作階段（add_repo：mashin-84/mochen，push 權限）、clone，再讀 `index.html` 的關鍵段落。
@@ -569,9 +569,18 @@
 - 折射傷害改成每關可設 `Stages[n].reflectDmg = [氣血, 架勢]`（預設 [110, 14]，`51_physics.js`）；第 2 關 [70, 10]：三把都彈得到後一輪原本送 330 血＋42% 架勢，太多（使用者：第 2 關比第 1 關簡單）。
 - 第 5 關小狼起手（使用者：攻擊動作不夠明顯；規則：開場招 ≥0.35 秒）：幽影撕咬 0.26→0.40、連環撕咬 0.30→0.38、血爪三連 0.38→0.42。
 - 第 3 關「有難度」＝排第三合理，不調。
-- 第 5 關美術補強（提示詞已給，等圖）：小狼全招式關鍵格 4×5、大狼全招式關鍵格 4×5、大狼倒地三格（原 17／18 畫風不一致）、荒原殘陽地面帶＋前景。
+- 第 5 關美術補強：提示詞已給，圖已於 v0.8.79 接入。
 
-**目前進度與待辦（2026-11-06，v0.8.78）**
+**v0.8.79 第 5 關美術補強（大小狼全招式關鍵格＋大狼倒地＋分層場景）**
+- 小狼生圖 4×5 → `assets/boss5/40～59`（縮放 0.77，對齊舊站姿寬度）：撕咬 `40_sb_wind／41_sb_open／42_sb_snap／43_sb_rec`、血爪 `44_sc_rear／45_sc_a／46_sc_b／47_sc_rec`、疾撲 `48_sp_coil／49_sp_rise／50_sp_dive／51_sp_land`、【危】狂暴衝撲 `52_sr_tell`（壓低豎毛）`／53_sr_dart`、幽影閃 `55_ss_hit`、【危】甩尾 `56_st_wind／57_st_spin／58_st_rec`、長嘯 `59_s_howl`（嗜血狂亂與蛻變前搖）；`54_sr_skid` 是回頭姿勢，未使用。
+- 大狼生圖 4×5 → `assets/boss5b/40～59`（縮放 1.075）：巨爪 `40_bw_wind／41_bw_mid／42_bw_follow／43_bw_rec`、地面連錘 `44_bs_up／45_bs_down／46_bs_up2／47_bs_rec`、躍壓 `48_bl_crouch／49_bl_fly／50_bl_dive／51_bl_land`、【危】噬魂 `52_bb_tell／53_bb_snap`、衝撞 `54_bc_wind／55_bc_run`、咆哮 `56_b_howl`、白骨刺陣 `57_b_summon`、【危】魔尾 `58_bt_wind／59_bt_spin`。第 4 列兩隻狼在原圖相碰，切圖前在 x=1380 畫洋紅線分開。
+- 蛻變 `transform`：前搖 `59_s_howl`（小狼資料夾）→ active 起點換大狼 `56_b_howl`；咆哮前搖用舊 `07_windup`、白骨刺陣前搖用舊 `14_cast`（避免與噬魂的張口前搖混淆）。
+- 大狼倒地 `17_kneel／18_fall／19_lie` 重生（`tools/fall3.py … 0.5`），原本畫風不一致。
+- 分層場景：`assets/bg/arena5_ground.webp`（Gemini 上緣米白石板帶太像人行道，已依土色重新上色、左右 80px 交叉淡化接縫）、`arena5_fg.webp`（四簇：枯棘、破車輪、傾斜石碑、枯草；去掉一團紫色殘影與碎片）；`S5.layers` 參數同第 2 關。
+- 切圖腳本（未入庫）：以全圖元件依中心點分格（避免逐格切會切掉跨格的耳朵／尾巴），再用 keyposes 的 `render` 對齊腳底 y=560。
+- 驗證：check 0 錯誤；逐招三拍截圖確認；直接觸發二階段確認蛻變與大狼招式正常；smoke 第 5 關 ok。待使用者手機實測（小狼動作是否夠明顯、第 5 關難度）。
+
+**目前進度與待辦（2026-11-06，v0.8.79）**
 - 使用者實測回報：第 1 關難度還行（不調）；第 2 關分身「有點難，但多打幾次可以突破」＝符合「初見約 3～6 次過關」目標，暫不調（若之後要降：`ILLU.life` 14→10、`counterDmg` 90→70、幻影近戰同步改隔一招一次）。
 - 第 2 關待確認：開場影片在手機是否順、影片音效時間點、名牌在亮背景是否夠清楚。
 - 第 3 關（莫寒川）：關鍵格、專屬特效、地面帶、前景、名牌、開場影片都已接（v0.8.59～v0.8.64），待使用者手機實測（開場影片、特效亮度、難度）。
